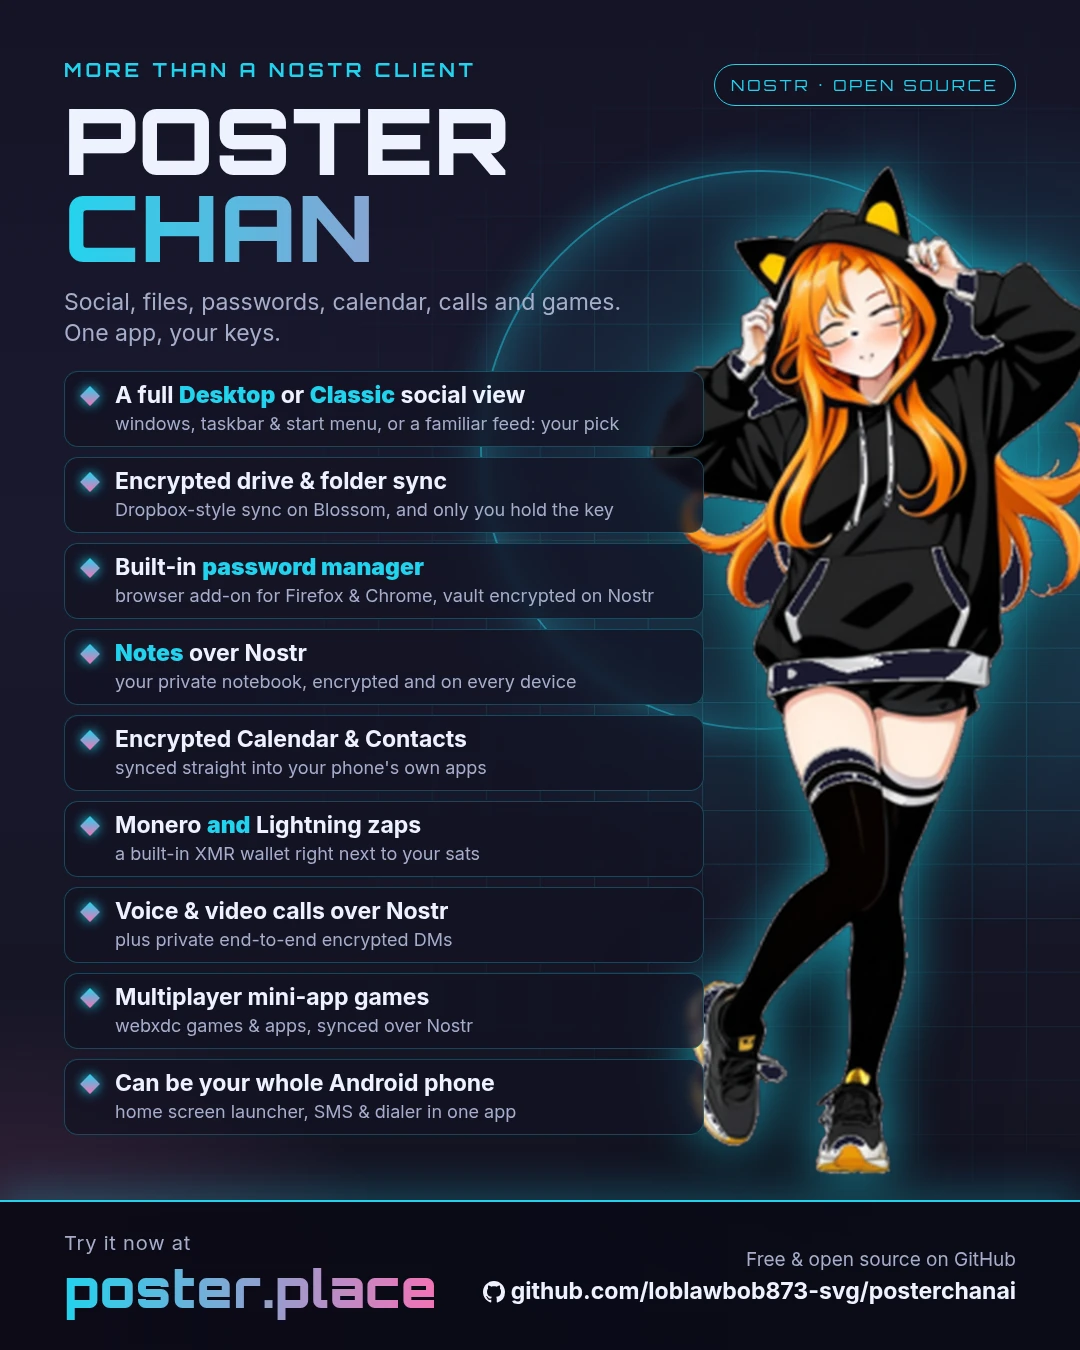
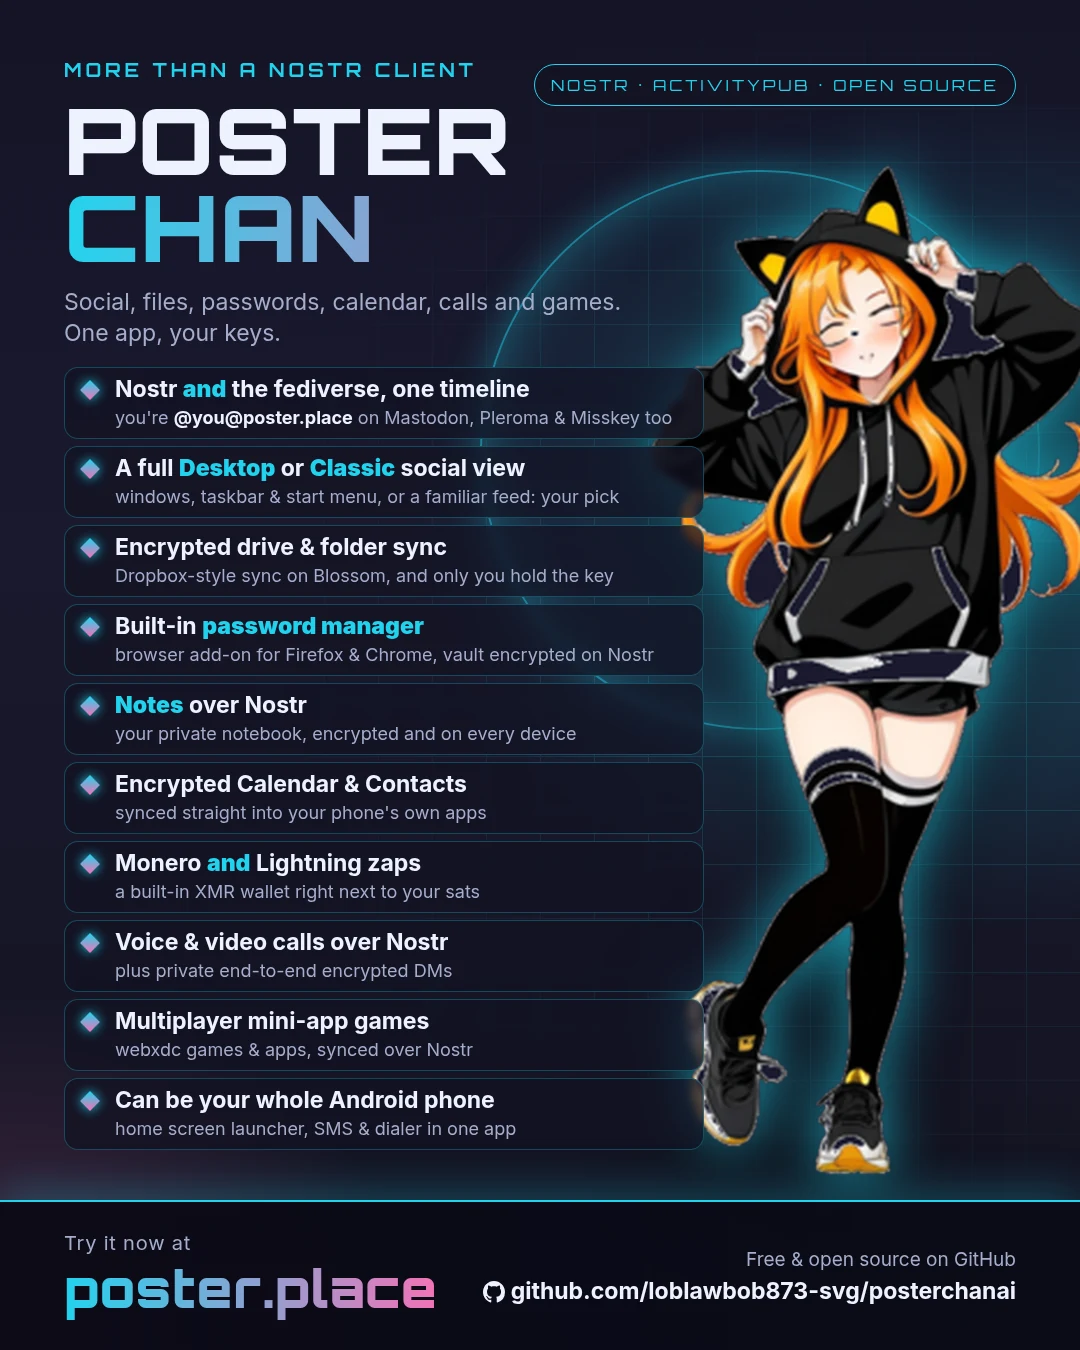
docs(readme): the promo graphics name ActivityPub -- one timeline with the fediverse, and a native AP server per node

diff --git a/README.md b/README.md
@@ -4,8 +4,8 @@
 
 # Poster-chan AI
 
-<a href="https://poster.place"><img src="docs/promo/posterchan-client.webp" alt="PosterChan — more than a Nostr client: full Desktop or Classic view, encrypted drive and folder sync, password manager, Notes over Nostr, calendar and contacts, Monero and Lightning zaps, calls, mini-app games, Android phone mode" width="49%" /></a>
-<a href="#quick-start-backend-and-web-ui"><img src="docs/promo/posterchan-selfhost.webp" alt="Run your own node — relay, Blossom and NIP-05; Jellyfin-compatible media server; Git over Nostr; virtual machines; local AI; office suite; live streaming; PosterChanOS" width="49%" /></a>
+<a href="https://poster.place"><img src="docs/promo/posterchan-client.webp" alt="PosterChan — more than a Nostr client: Nostr and the fediverse in one timeline (you are @you@poster.place on Mastodon too), full Desktop or Classic view, encrypted drive and folder sync, password manager, Notes over Nostr, calendar and contacts, Monero and Lightning zaps, calls, mini-app games, Android phone mode" width="49%" /></a>
+<a href="#quick-start-backend-and-web-ui"><img src="docs/promo/posterchan-selfhost.webp" alt="Run your own node — relay, Blossom and NIP-05; a native ActivityPub server (@name@yourdomain on the fediverse); Jellyfin-compatible media server; Git over Nostr; virtual machines; local AI; office suite; live streaming; PosterChanOS" width="49%" /></a>
 
 ### A Nostr-powered personal cloud, Jellyfin-compatible media server, and self-hosted AI powerhouse — on your hardware, under your keys.
 
